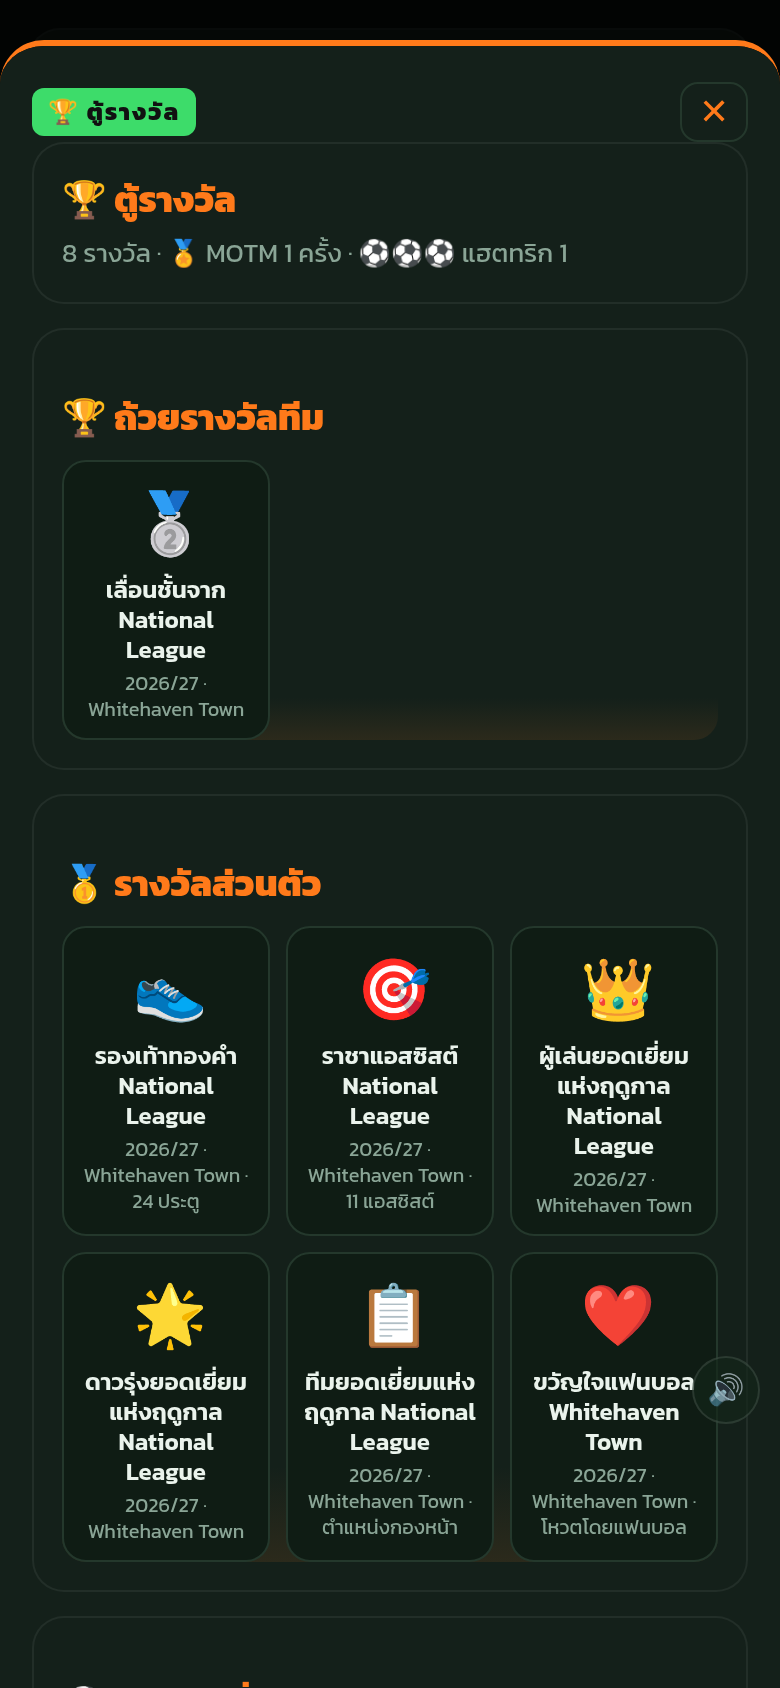
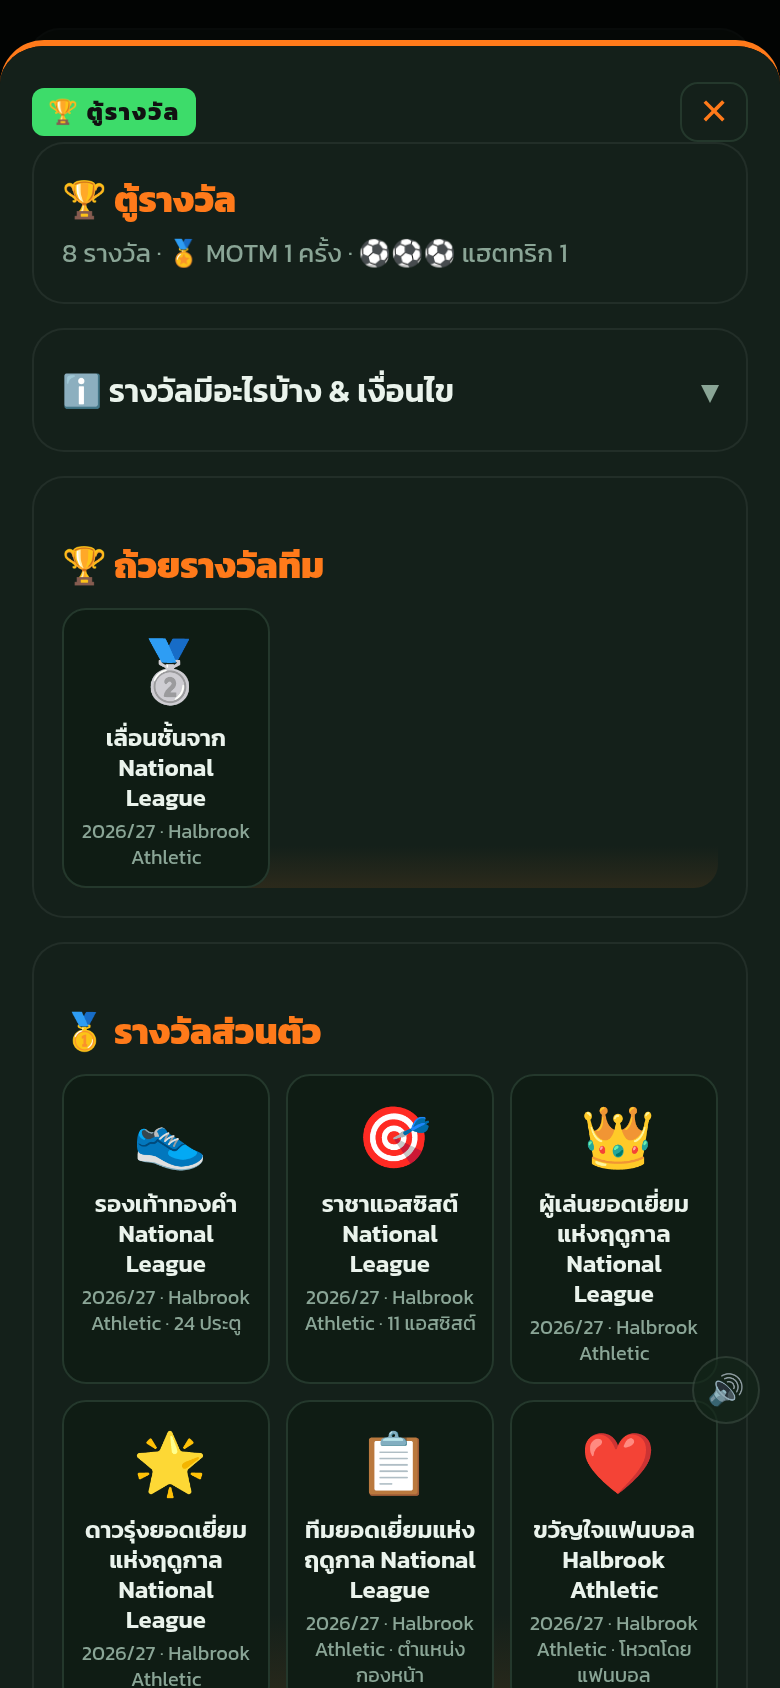
Realistic global award eligibility (4-5 star leagues, club finish), awards info (v40)

diff --git a/game.js b/game.js
@@ -1,4 +1,4 @@
-const APP_VER=39;
+const APP_VER=40;
 // ===== AUTO UPDATE (PWA) =====
 function checkUpdate(){try{fetch('index.html?t='+Date.now(),{cache:'no-store'}).then(r=>r.text()).then(t=>{const m=t.match(/game\.js\?v=(\d+)/);const nv=m?+m[1]:0;if(nv>APP_VER){const k='fl_upd_'+nv;if(sessionStorage.getItem(k))return;sessionStorage.setItem(k,'1');try{typeof save==='function'&&S&&save()}catch(e){}location.replace(location.pathname+'?v='+nv+'&t='+Date.now())}}).catch(()=>{})}catch(e){}}
 document.addEventListener('visibilitychange',()=>{if(document.visibilityState==='visible')checkUpdate()});
@@ -1062,15 +1062,20 @@ const _esA=endSeason;endSeason=function(){if(!S.club)return _esA();AWI();const p
   if(app>=16&&(avg>=7.3||(avg>=7.0&&g+a>=12)))add('tots','📋',`ทีมยอดเยี่ยมแห่งฤดูกาล ${L}`,`ตำแหน่ง${POS[p.pos]} · ${S.slabel}`,{sp:3,f:.06,tr:3},`${p.name} ติดทีมยอดเยี่ยมแห่งฤดูกาล ${L}`);
   if(app>=12&&ps+Math.min(.3,Math.log10(p.fans+10)/20)>=7.5+R()*.4)add('fans','❤',`ขวัญใจแฟนบอล ${cn}`,`โหวตโดยแฟนบอล · ${S.slabel}`,{f:.1,mo:10,tr:4},`แฟนบอล ${cn} โหวตให้ ${p.name} เป็นนักเตะยอดเยี่ยมของสโมสร`);
   if(p.pos==='DF'&&app>=15&&p.scs>=8&&avg>=6.9)add('wall','🧱',`กองหลังยอดเยี่ยมแห่งฤดูกาล ${L}`,`${p.scs} คลีนชีต · ${S.slabel}`,{sp:4,f:.06,tr:4},`${p.name} คว้ารางวัลกองหลังยอดเยี่ยม ${L} (${p.scs} คลีนชีต)`);
-  const gs=((avg-6)*2+g*.12+a*.08+(pos===1?1:0)+(p.smotm||0)*.1)*w;
-  if(age<=21&&app>=12){if(gs>=4.2+R()*.8)add('gboy','🏅','โกลเด้นบอย (ดาวรุ่ง U21 ยอดเยี่ยมของโลก)',S.slabel,{m:300000,sp:8,f:.25,tr:6},`🌍 ${p.name} คว้ารางวัลโกลเด้นบอย! ดาวรุ่งที่ดีที่สุดในโลก`);else if(gs>=3)news(`🏅 ${p.name} ติดโผผู้เข้าชิงโกลเด้นบอย`)}
-  if(c.t===0&&app>=18){if(gs>=6.3+R()*.9)add('ballon','🌍','ลูกฟุตบอลทองคำโลก',`นักเตะยอดเยี่ยมของโลก ${S.slabel}`,{m:2000000,sp:15,f:.4,tr:10,mo:25},`🌍🏆 ${p.name} คือนักเตะที่ดีที่สุดในโลก! คว้าลูกฟุตบอลทองคำ`);else if(gs>=4.5){const rk=gs>=5.5?rnd(2,3):rnd(4,10);news(`🌍 ${p.name} ติดอันดับ ${rk} ของรางวัลลูกฟุตบอลทองคำโลก`);toast(`🌍 ลูกฟุตบอลทองคำ: อันดับ ${rk}`)}}
+  const str=LEAGUES[c.c].tiers[c.t][1],stars=lstars(str),glob=str>=72,sw=(stars>=5?1:.7)*(TOP5.includes(c.c)?1:.75),cb=pos===1?1.5:pos<=4?.8:pos<=8?.2:-.6;
+  const gs=((avg-6)*2+g*.1+a*.07+(p.smotm||0)*.08)*sw;
+  if(glob&&age<=21&&app>=12){const v=gs+cb;if(v>=5.8+R()*1)add('gboy','🏅','โกลเด้นบอย (ดาวรุ่ง U21 ยอดเยี่ยมของโลก)',`${L} ${'⭐'.repeat(stars)} · อันดับ ${pos}`,{m:300000,sp:8,f:.25,tr:6},`🌍 ${p.name} คว้ารางวัลโกลเด้นบอย! ดาวรุ่งที่ดีที่สุดในโลก`);else if(v>=3.4)news(`🏅 ${p.name} ติดโผผู้เข้าชิงโกลเด้นบอย`)}
+  if(glob&&app>=20){const v=gs+cb*1.5;if(pos<=6&&v>=9+R()*2)add('ballon','🌍','ลูกฟุตบอลทองคำโลก',`นักเตะยอดเยี่ยมของโลก · ${L} อันดับ ${pos}`,{m:2000000,sp:15,f:.4,tr:10,mo:25},`🌍🏆 ${p.name} คือนักเตะที่ดีที่สุดในโลก! คว้าลูกฟุตบอลทองคำ`);else if(v>=4.6){const rk=v>=6.2?rnd(2,3):v>=5.4?rnd(4,10):rnd(11,30);news(`🌍 ${p.name} ติดอันดับ ${rk} ของรางวัลลูกฟุตบอลทองคำโลก`);toast(`🌍 ลูกฟุตบอลทองคำ: อันดับ ${rk}`)}}
   p.srs=0;p.srn=0;p.smotm=0;p.scs=0}catch(e){console.error('season awards',e)}
  const r=_esA();if(out.length===1)celeb(out[0].ic,out[0].n,out[0].d,out[0].r);else if(out.length)celeb(out.map(o=>o.ic).slice(0,4).join(''),`${out.length} รางวัลแห่งฤดูกาล!`,out.map(o=>`<b>${o.ic} ${o.n}</b>`).join('<br>'),out.flatMap(o=>o.r));try{achChk()}catch(e){}save();return r};
 function cabHTML(){AWI();const p=S.p,cab=S.cab;const grp=t=>{const m={};cab.filter(x=>x.t===t).forEach(x=>{const k=x.n;(m[k]=m[k]||{ic:x.ic,n:x.n,l:[]}).l.push(x)});return Object.values(m)};
  const shelf=(t,title)=>{const g=grp(t);return `<div class="card"><h2>${title}</h2>${g.length?`<div class="shelf">${g.map(x=>`<div class="trph"><div class="ti">${x.ic}${x.l.length>1?`<b>x${x.l.length}</b>`:''}</div><div class="tn">${x.n}</div><small class="mu">${x.l.slice(-3).map(y=>`${y.s}${y.c?' · '+y.c:''}${y.d&&t!=='team'&&y.d!==y.s?' · '+y.d.replace(' · '+y.s,''):''}`).join('<br>')}</small></div>`).join('')}</div>`:'<p class="mu">ยังว่างอยู่ — ลงสนามแล้วสร้างประวัติศาสตร์กันเลย!</p>'}</div>`};
  const done=ACH.filter(a=>S.ach[a[0]]).length;
  return `<div class="card row sp"><div><h2 style="margin:0">🏆 ตู้รางวัล</h2><span class="mu">${cab.length} รางวัล · 🏅 MOTM ${p.mst.motm} ครั้ง · ⚽⚽⚽ แฮตทริก ${p.mst.hat}</span></div></div>
+ <details class="fold card"><summary>ℹ รางวัลมีอะไรบ้าง & เงื่อนไข</summary><div class="mu" style="font-size:13px;line-height:1.55;margin-top:6px">
+ <b>ระดับลีก (ทุกดิวิชัน):</b> ผู้เล่นยอดเยี่ยมประจำเดือน (3+ นัดในเดือน), รองเท้าทองคำ (ดาวซัลโวลีก), ราชาแอสซิสต์, ผู้เล่นยอดเยี่ยมแห่งฤดูกาล, ดาวรุ่งยอดเยี่ยม (อายุ ≤21), ทีมยอดเยี่ยมแห่งฤดูกาล, กองหลังยอดเยี่ยม (คลีนชีต), ขวัญใจแฟนบอลสโมสร<br>
+ <b>🌍 ระดับโลก:</b> โกลเด้นบอย (U21) และลูกฟุตบอลทองคำโลก — <span class="ye">ต้องเล่นในลีก ⭐⭐⭐⭐ ขึ้นไป (พลังลีก 72+) และทีมต้องจบอันดับต้น ๆ</span> ลีกระดับล่างลุ้นไม่ได้แม้สถิติดีแค่ไหน · ลีก 5 ดาว แชมป์ลีก และสถิติส่วนตัวมีน้ำหนักมาก<br>
+ <b>🏆 ทีม:</b> แชมป์ลีก, เลื่อนชั้น (เกมนี้ยังไม่มีถ้วยบอลถ้วย)</div></details>
  ${shelf('team','🏆 ถ้วยรางวัลทีม')}${shelf('ind','🥇 รางวัลส่วนตัว')}${shelf('ball','⚽ ลูกบอลที่ระลึก')}${shelf('ms','🎽 ช่วงเวลาสำคัญ')}
  <div class="card"><div class="row sp"><h2>🎖 ความสำเร็จ</h2><span class="tag">${done}/${ACH.length}</span></div>${ACH.map(a=>{const [c,g]=a[4](p),ok=S.ach[a[0]],r=a[5];return `<div class="achr ${ok?'ok':''}"><span class="ai">${ok?a[1]:'🔒'}</span><div style="flex:1;min-width:0"><b>${a[2]}</b><div class="mu" style="font-size:12px">${a[3]} · รางวัล: ${[r.sp?`⭐${r.sp}`:'',r.m?`฿${fmt(r.m)}`:'',r.f?'📈':'',r.tr?'🤝':''].filter(Boolean).join(' ')}</div>${ok?'':bar(Math.min(100,c/g*100))}<small class="mu">${ok?'✅ ปลดล็อกแล้ว':`${fmt(Math.min(c,g))}/${fmt(g)}`}</small></div></div>`}).join('')}</div>`}
 function openCab(){sheet(`<div class="row sp"><span class="tag g">🏆 ตู้รางวัล</span><button class="ab" onclick="closeM()" style="font-size:18px">✕</button></div>${cabHTML()}`)}

diff --git a/index.html b/index.html
@@ -1,4 +1,4 @@
 <!doctype html><html lang="th"><head><meta charset="utf-8"><link rel="apple-touch-icon" href="icons/apple-touch-icon.png"><link rel="icon" type="image/png" sizes="32x32" href="icons/favicon-32.png"><link rel="manifest" href="manifest.webmanifest"><meta name="apple-mobile-web-app-title" content="เส้นทางแข้ง"><meta name="apple-mobile-web-app-capable" content="yes"><meta name="apple-mobile-web-app-status-bar-style" content="black"><meta name="theme-color" content="#0a120d"><meta name="viewport" content="width=device-width,initial-scale=1,maximum-scale=1,user-scalable=no,viewport-fit=cover">
 <title>เส้นทางแข้ง: Football Life</title>
 <link rel="preconnect" href="https://fonts.googleapis.com"><link href="https://fonts.googleapis.com/css2?family=Kanit:wght@400;600;800&display=swap" rel="stylesheet">
-<link rel="stylesheet" href="style.css?v=39"></head><body><div id="app"></div><nav id="tabs"></nav><div id="modal"></div><script src="game.js?v=39"></script></body></html>
+<link rel="stylesheet" href="style.css?v=40"></head><body><div id="app"></div><nav id="tabs"></nav><div id="modal"></div><script src="game.js?v=40"></script></body></html>
